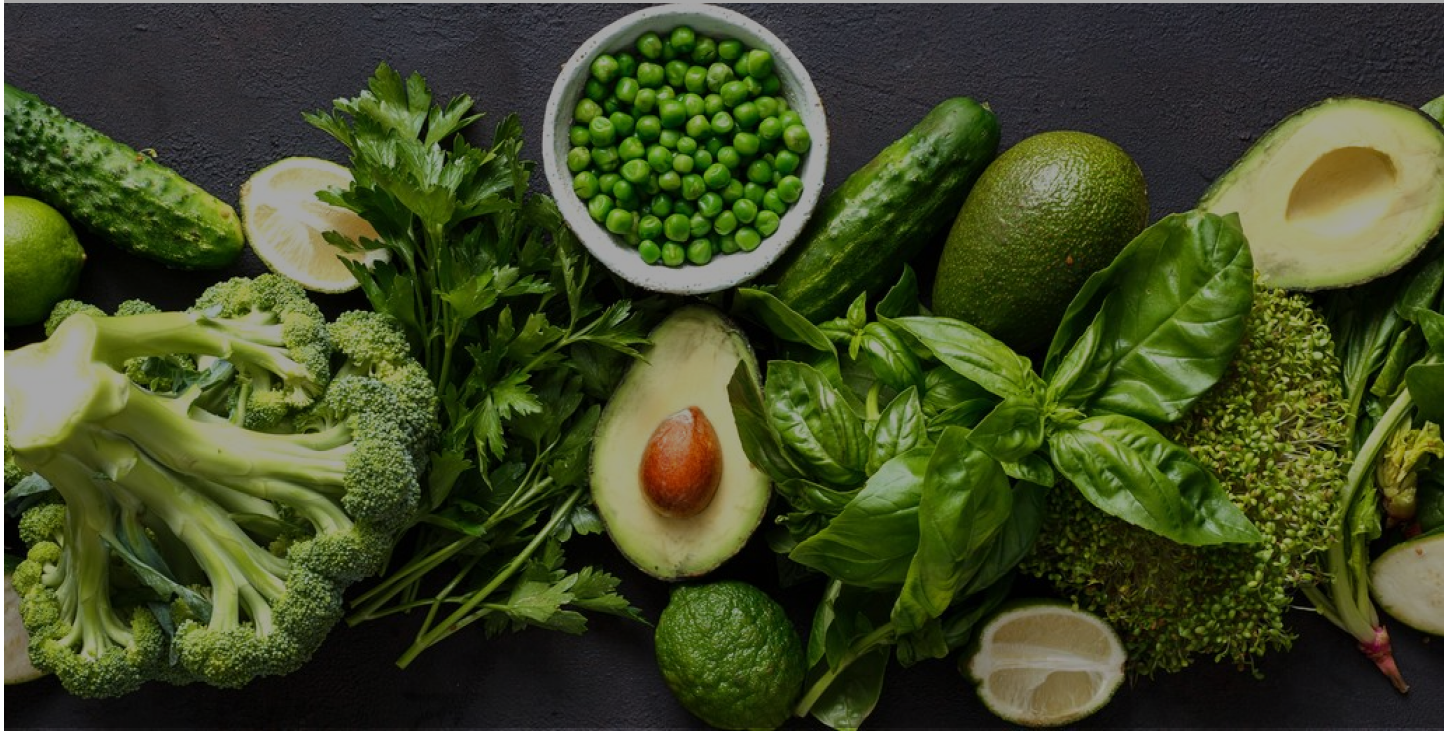
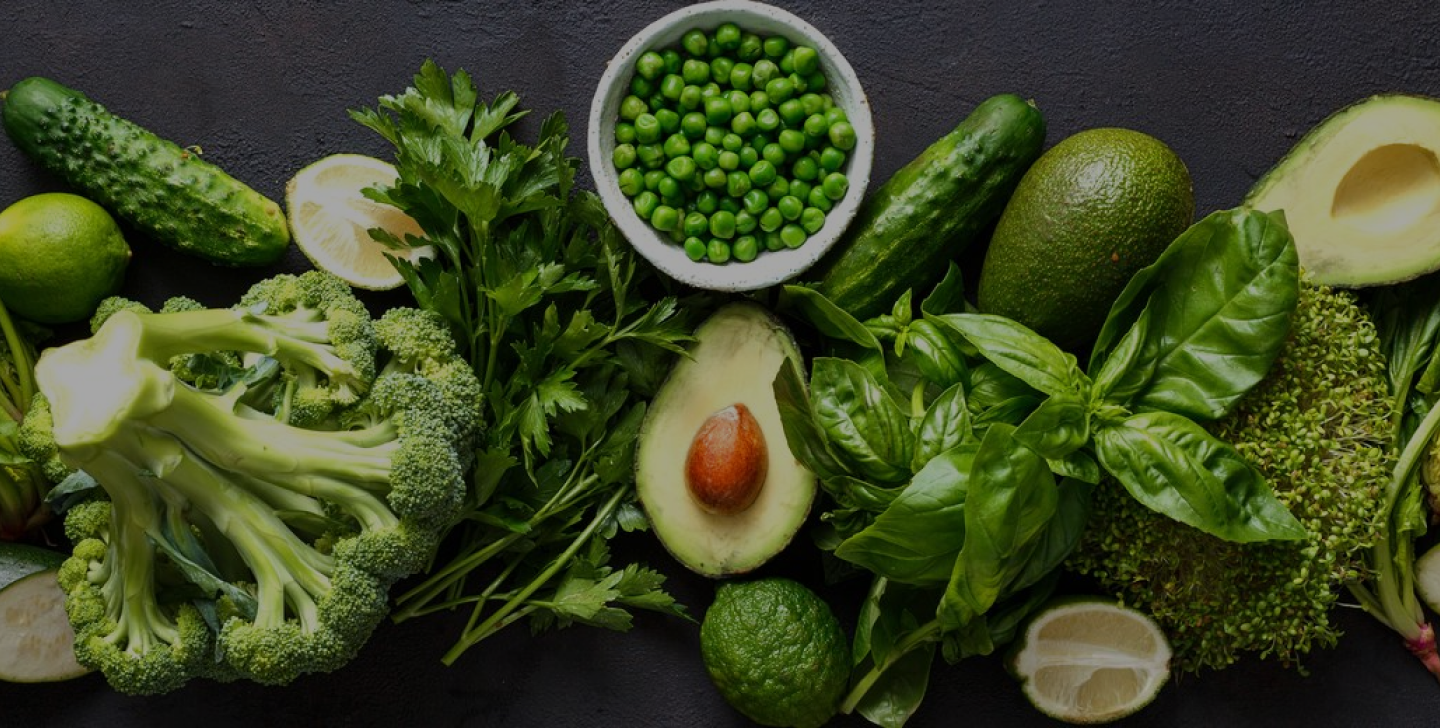
Наполнение лендинга

diff --git a/app/assets/stylesheets/welcome_basics.scss b/app/assets/stylesheets/welcome_basics.scss
@@ -1,4 +1,4 @@
-.body {
+body {
   background-color: #FAFAFA;
 }
 
@@ -6,10 +6,17 @@ h1 {
   font-family: Roboto;
   font-size: 43px;
   z-index: 1;
+  font-weight: bolder;
 }
 
 h2 {
   font-family: Roboto;
+}
+
+.content h1 {
+  font-size: 45px;
+  z-index: 1;
+  font-weight: bolder;
 }
 
 .content p {
@@ -19,10 +26,10 @@ h2 {
 }
 
 .image {
-  display: flex;
-  z-index: 1;
-  margin-top: -10px;
-  margin-left: -90px;
+  //display: flex;
+//  z-index: 1;
+  //margin-top: -10px;
+  margin-left: -10px;
   width: 1024px;
   background-size: cover;
 }
@@ -53,7 +60,7 @@ a {
     margin-left: 370px;
 }
 
-.content a {
+ a {
   font-family: Roboto;
   text-decoration: none;
   display: block;
@@ -63,12 +70,27 @@ a {
   border-radius: 40px;
   background: #70A928;
   font-size: 26px;
+  text-align: center;
+
+}
+
+.content .buttons {
+  position: absolute;
+  margin-left: 100px;
+}
+
+.info {
+  //margin-top: 300px;
 }
 
 .info h2 {
   font-size: 35px;
   margin-top: 128px;
   margin-left: 341px;
+}
+
+.info .info-img {
+  margin-top: 40px;
 }
 
 .info .info-logo img {
@@ -79,8 +101,8 @@ a {
 
 .info .info-img img {
   transform: rotate(90deg);
-  margin-left: -80px;
   margin-top: -100px;
+  width: 550px;
 }
 
 .info .text p {
@@ -91,6 +113,119 @@ a {
 }
 
 .text {
-  margin-top: -580px;
-  margin-left: 750px;
+  margin-top: -480px;
+  margin-left: 650px;
+}
+
+.img-2 {
+  margin-top: 169px;
+}
+
+.about {
+  height: 750px;
+}
+
+.about .about_image {
+  margin-left: 380px;
+  margin-top: 79px;
+}
+
+.first {
+  margin-left: 73px;
+  margin-top: -670px;
+}
+
+.about h1 {
+  font-size: 20px;
+  color: #70A928;
+}
+
+.about p {
+ width: 340px;
+ margin-top: 20px;
+ line-height: 1.5;
+}
+
+.about .about_image {
+  margin-bottom: 196px;
+}
+
+.second {
+  margin-top: 66px;
+  margin-left: 73px;
+}
+
+.third {
+  margin-left: 1040px;
+  margin-top: -400px;
+}
+
+.third h1 {
+  width: 400px;
+}
+
+.fourth {
+  margin-left: 1040px;
+  margin-top: 110px;
+}
+
+.fourth h1 {
+  width: 200px;
+}
+
+.login {
+  color: white;
+  z-index: 3;
+  height: 423px;
+}
+
+.login h1 {
+  font-size: 45px;
+  z-index: 1;
+  font-weight: bolder;
+  margin-top: -350px;
+  width: 800px;
+  margin-left: 400px;
+}
+
+.login p {
+  margin-left: 350px;
+  margin-top: 30px;
+  width: 800px;
+  font-size: 20px;
+  line-height: 1.5;
+  text-align: center;
+}
+
+.login a {
+  position: absolute;
+  margin-left: 565px;
+}
+
+.products h1 {
+  color: black;
+  margin-top: 113px;
+  margin-left: 300px;
+  width: 900px;
+}
+
+.products .product_1 {
+  margin-top: 69px;
+  margin-left: 78px;
+}
+
+.products .product_2 {
+  margin-top: -402px;
+  margin-left: 519px
+}
+
+.products .product_3 {
+  margin-top: -402px;
+  margin-left: 961px;
+}
+
+.products .product_1 .img {
+  position: absolute;
+  margin-left: 80px;
+  margin-top: -370px;
 }
